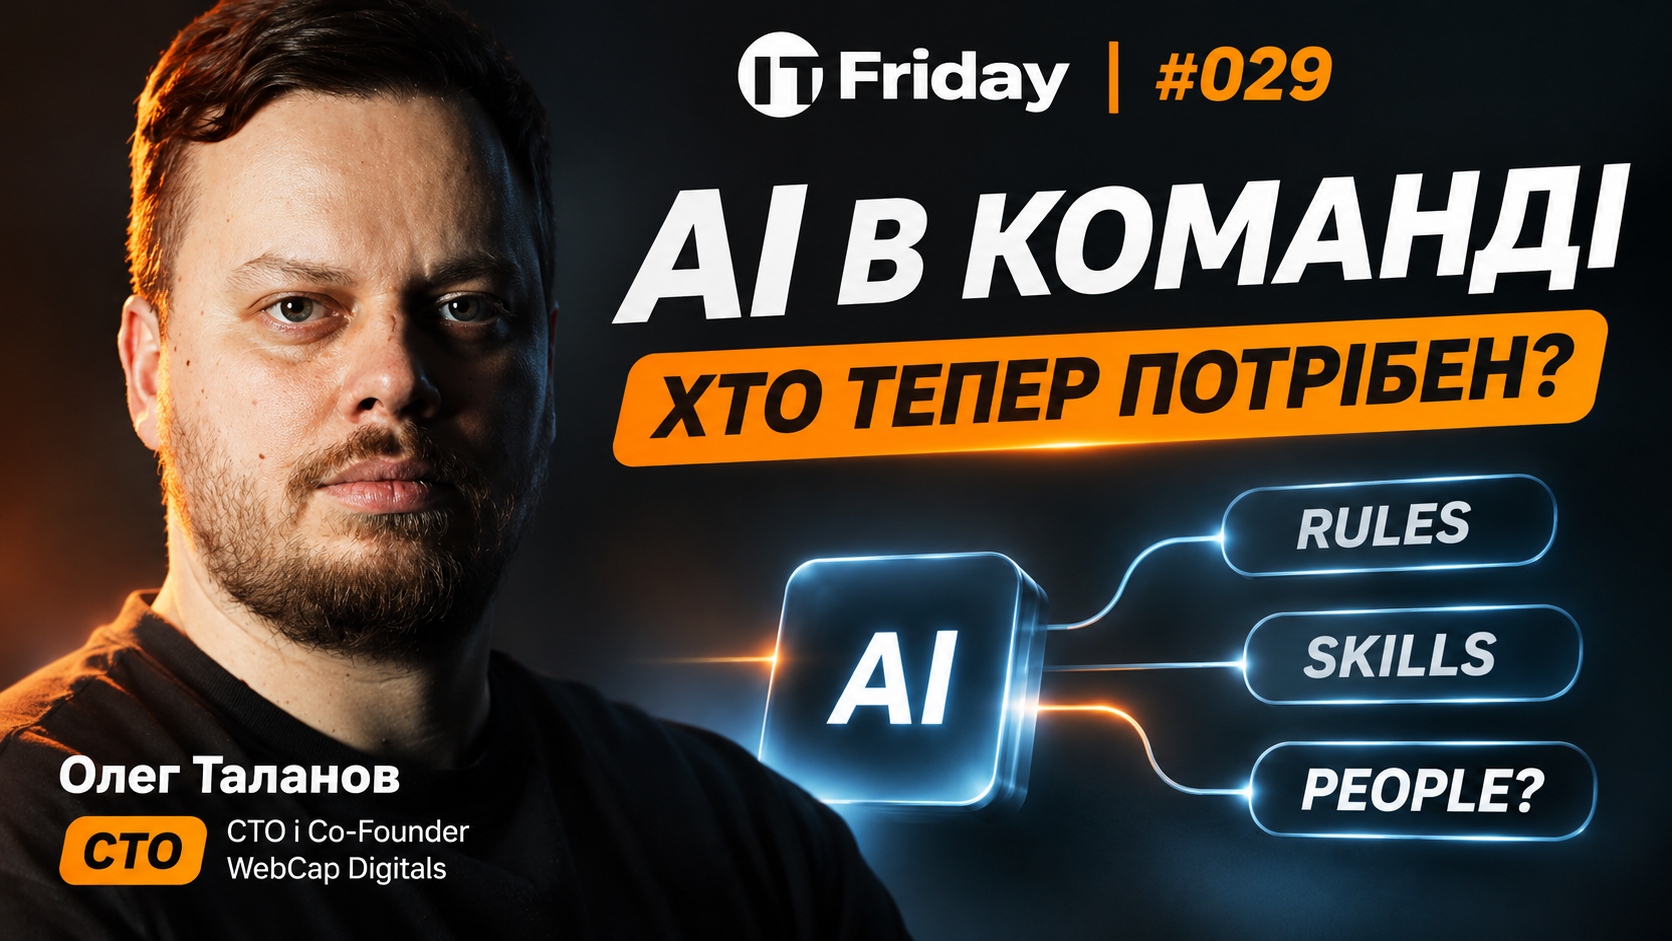
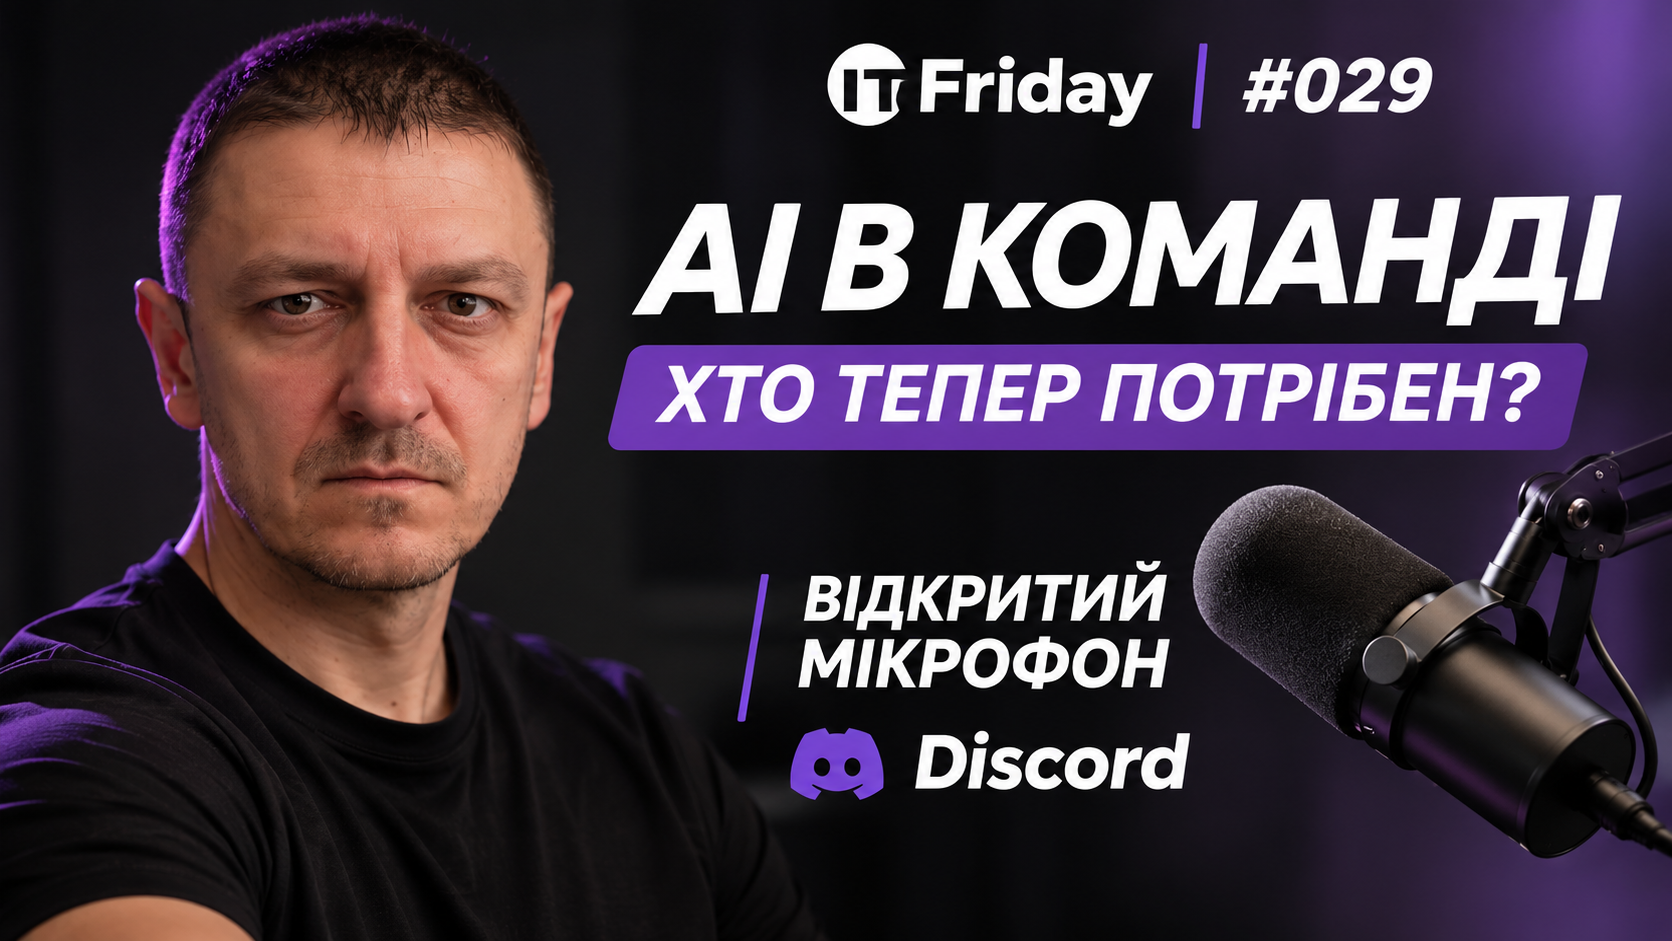
029: open conversation with the audience + new cover
Oleh Talanov can't join; #029 becomes solo + Discord voice room.
Same topic, new description, format line and cover (UA + EN).
#029 removed from Talanov's profile; host role Interviewer -> Speaker.

diff --git a/streams/029.md b/streams/029.md
@@ -1,15 +1,15 @@
 ---
-description: "Стрім ІТ П'ятниці #029: AI в команді: правила, скіли і хто тепер потрібен — Олег Таланов. Погляд CTO агенції і розробника, який щодня працює з агентами."
+description: "Стрім ІТ П'ятниці #029: AI в команді: правила, скіли і хто тепер потрібен. Відкрита розмова з глядачами: досвід розробника і ваші голоси з Discord-кімнати."
 topic: ai
 ---
 
-# #029 — AI в команді: правила, скіли і хто тепер потрібен · Олег Таланов
+# #029 — AI в команді: правила, скіли і хто тепер потрібен
 
 <StreamVideo />
 
 **Дата:** 27 листопада 2026 | 19:00 London / 21:00 Kyiv  
-**Формат:** Дискусія з гостем · погляд CTO і розробника · ~60 хвилин  
-**Гість:** Олег Таланов  
+**Формат:** Відкрита розмова з глядачами · соло + голоси з Discord · ~60 хвилин  
+**Гість:** —  
 **YouTube: [https://youtube.com/live/d6rjxuP78jE](https://youtube.com/live/d6rjxuP78jE)**
 
 ## Учасники
@@ -18,31 +18,22 @@ topic: ai
 The AA · Cardiff, UK  
 [YouTube @zloyleva](https://youtube.com/@zloyleva) · [itfriday.community](https://itfriday.community)
 
-**[Олег Таланов](/speakers/oleh-talanov)** — CTO & Co-Founder  
-WebCap Digitals · Запоріжжя, Україна  
-[LinkedIn](https://www.linkedin.com/in/talanov-oleh/) · [webcap.com](https://webcap.com)
-
-CTO і co-founder **WebCap Digitals**. Утретє на ІТ П'ятниці після [#005](/streams/005) і [#012](/streams/012).
-
 ## Про що поговоримо
 
-Про AI в нас було вже багато стрімів, але завжди з боку розробника: інструменти, агенти, скіли, workflow. Цього разу дивимося з іншого боку столу. Олег Таланов — людина, яка вирішує, кого наймати, що дозволено робити з AI в команді і що казати клієнтам, коли вони питають «а чому не дешевше, ви ж з AI?».
+> Формат змінився: Олег Таланов, на жаль, цього разу не зможе приєднатися. Тема лишається та сама, але замість розмови з CTO — відкрита розмова з вами.
 
-Розмова двох практиків: CTO агенції і розробник, який щодня працює з агентами.
-
-> Олег у Запоріжжі, де графік світла пишуть російські обстріли. Якщо зв'язок зникне, план Б готовий — стрім буде в будь-якому разі.
+Я розробник, який щодня працює з AI-агентами, і розповім, як це виглядає в мене насправді. А далі слово вам: хочеш сказати голосом — заходь у Discord-кімнату **IT Friday voice room** (<a href="https://discord.gg/az53vrKQU" target="_blank" rel="noopener">посилання</a>), і я виведу тебе в ефір. Не хочеш голосом — пиши в чат, читаю все.
 
 ### Що розберемо
 
-- Як ми реально використовуємо AI: інструменти, робочий день, команда
-- Чи стали проєкти швидшими насправді і чи помітили це клієнти
-- Правила в команді: код клієнта в LLM, NDA, CLAUDE.md / AGENTS.md у репо
+- Як я реально використовую AI і чи став я швидшим
+- Правила: як домовлятися з агентом, NDA і код роботодавця в LLM
 - Хто відповідає за код, який написав агент
-- Скіли: покажемо свої, і чи треба їх тестувати
-- Коли делегуєш код агентам, чи не втрачаєш орієнтацію у власному проєкті?
+- Скіли: чи треба їх тестувати, і як зрозуміти, що агент «поплив»
+- Чи розумієш ти код, який тобі написав AI місяць тому?
 - Люди: звільнення «через AI», джуни, тиск «використовуй AI або відстанеш»
-- Бліц: «AI — це бульбашка», «я вже не напишу код руками», «промпти тільки англійською»
-- Питання з чату
+- Бліц «я проти чату»: «AI — це бульбашка», «я вже не напишу код руками», «промпти тільки англійською»
+- Ваші питання і думки — голосом у Discord або в чаті
 
 Головне питання вечора: AI в команді — це нові правила гри для всіх чи просто ще один інструмент, про який забагато галасу?
 

diff --git a/en/streams/029.md b/en/streams/029.md
@@ -1,15 +1,15 @@
 ---
-description: "IT Friday stream #029: AI in the Team: Rules, Skills and Who We Need Now — Oleh Talanov. An agency CTO and a developer who works with agents every day."
+description: "IT Friday stream #029: AI in the Team: Rules, Skills and Who We Need Now. An open conversation with the audience: a developer's experience and your voices from our Discord room."
 topic: ai
 ---
 
-# #029 — AI in the Team: Rules, Skills and Who We Need Now · Oleh Talanov
+# #029 — AI in the Team: Rules, Skills and Who We Need Now
 
 <StreamVideo />
 
 **Date:** November 27, 2026 | 19:00 London / 21:00 Kyiv  
-**Format:** Discussion with a guest · the CTO and the developer view · ~60 min  
-**Guest:** Oleh Talanov  
+**Format:** Open conversation with the audience · solo + voices from Discord · ~60 min  
+**Guest:** —  
 **YouTube: [https://youtube.com/live/d6rjxuP78jE](https://youtube.com/live/d6rjxuP78jE)**
 
 ## Participants
@@ -18,31 +18,22 @@ topic: ai
 The AA · Cardiff, UK  
 [YouTube @zloyleva](https://youtube.com/@zloyleva) · [itfriday.community](https://itfriday.community)
 
-**[Oleh Talanov](/en/speakers/oleh-talanov)** — CTO & Co-Founder  
-WebCap Digitals · Zaporizhzhia, Ukraine  
-[LinkedIn](https://www.linkedin.com/in/talanov-oleh/) · [webcap.com](https://webcap.com)
-
-CTO and co-founder of **WebCap Digitals**. His third time on IT Friday, after [#005](/en/streams/005) and [#012](/en/streams/012).
-
 ## What We'll Discuss
 
-We've done plenty of AI streams from the developer's side: tools, agents, skills, workflow. This time we switch seats. Oleh Talanov is the one deciding who gets hired, what the team is allowed to do with AI, and what to tell clients who ask “you use AI, so why isn't it cheaper?”.
+> Change of format: Oleh Talanov unfortunately can't join us this time. The topic stays the same, but instead of a conversation with a CTO, it's an open conversation with you.
 
-A conversation between two practitioners: an agency CTO and a developer who works with agents every day.
-
-> Oleh is in Zaporizhzhia, where Russian strikes keep knocking out the power. If the connection drops, we have a backup plan and the stream goes on.
+I'm a developer who works with AI agents every day, and I'll share how that actually looks for me. Then the floor is yours: want to speak? Join the **IT Friday voice room** on Discord (<a href="https://discord.gg/az53vrKQU" target="_blank" rel="noopener">link</a>) and I'll bring you on air. Prefer not to? Drop it in the chat, I read everything.
 
 ### What we'll cover
 
-- How we actually use AI: tools, the working day, the team
-- Did projects really get faster, and did clients notice
-- Team rules: client code in LLMs, NDAs, CLAUDE.md / AGENTS.md in repos
+- How I actually use AI, and whether it made me faster
+- Rules: how to set boundaries for an agent, NDAs and your employer's code in LLMs
 - Who owns code written by an agent
-- Skills: we'll show ours, and whether you need to test them
-- When you delegate code to agents, do you lose your bearings in your own project?
+- Skills: do you need to test them, and how to tell an agent has lost the plot
+- Do you understand the code AI wrote for you a month ago?
 - People: “AI layoffs”, juniors, and the pressure to use AI or fall behind
-- Blitz round: “AI is a bubble”, “I'll never write code by hand again”, “prompts only in English”
-- Questions from chat
+- Blitz round, me vs the chat: “AI is a bubble”, “I'll never write code by hand again”, “prompts only in English”
+- Your questions and opinions, by voice on Discord or in the chat
 
 The big question of the evening: is AI in the team a new set of rules for everyone, or just another overhyped tool?
 

diff --git a/speakers/oleh-levchenko.md b/speakers/oleh-levchenko.md
@@ -24,7 +24,7 @@ React · Node.js · TypeScript · AWS · System Design · Кар'єра в IT ·
 
 | Стрім | Роль | Тема | Дата |
 |-------|------|------|------|
-| [#029](/streams/029) | Інтерв'юер | AI в команді: правила, скіли і хто тепер потрібен — дискусія з Олегом Талановим | 27.11.2026 |
+| [#029](/streams/029) | Доповідач | AI в команді: правила, скіли і хто тепер потрібен — відкрита розмова з глядачами | 27.11.2026 |
 | [#028](/streams/028) | Доповідач | JavaScript виправив Date через 30 років — Temporal API на живих прикладах у консолі | 20.11.2026 |
 | [#027](/streams/027) | Інтерв'юер | Як знайти роботу в IT зараз: досвід з мобілки і вебу — інтерв'ю з Владиславом Баранкевичем | 13.11.2026 |
 | [#026](/streams/026) | Доповідач | RAG чи AI-агент: що обрати для пошуку по документах — експеримент наживо | 06.11.2026 |

diff --git a/en/speakers/oleh-levchenko.md b/en/speakers/oleh-levchenko.md
@@ -24,7 +24,7 @@ React · Node.js · TypeScript · AWS · System Design · IT Career · Community
 
 | Stream | Role | Topic | Date |
 |--------|------|-------|------|
-| [#029](/en/streams/029) | Interviewer | AI in the Team: Rules, Skills and Who We Need Now — discussion with Oleh Talanov | 27.11.2026 |
+| [#029](/en/streams/029) | Speaker | AI in the Team: Rules, Skills and Who We Need Now — an open conversation with the audience | 27.11.2026 |
 | [#028](/en/streams/028) | Speaker | JavaScript fixed Date after 30 years — the Temporal API with live console examples | 20.11.2026 |
 | [#027](/en/streams/027) | Interviewer | How to Find a Tech Job Right Now: Mobile and Web Experience — interview with Vladyslav Barankevych | 13.11.2026 |
 | [#026](/en/streams/026) | Speaker | RAG or an AI agent: which to choose for document search — a live experiment | 06.11.2026 |

diff --git a/CHANGELOG.md b/CHANGELOG.md
@@ -3,6 +3,13 @@
 Versioning: `1.<stream>.<patch>` — see "Versioning" in `CLAUDE.md`.
 Newest first. Not published on the site (`srcExclude`).
 
+## 1.29.3 — 2026-11-27
+
+### Changed
+- Stream #029: Oleh Talanov can't join; the stream becomes an open conversation with the audience (solo + Discord voice room). Same topic, new description and format line (UA + EN)
+- Speaker profiles: #029 removed from Oleh Talanov; Oleh Levchenko's #029 role changed Interviewer → Speaker
+- Stream #029 cover (`029.png` + `029.webp`): new thumbnail for the open-mic format
+
 ## 1.29.2 — 2026-11-27
 
 ### Fixed

diff --git a/speakers/oleh-talanov.md b/speakers/oleh-talanov.md
@@ -24,7 +24,6 @@ Laravel · Inertia.js · React · Vue.js · PHP · Software Architecture · Foun
 
 | Стрім | Роль | Тема | Дата |
 |-------|------|------|------|
-| [#029](/streams/029) | Гість | AI в команді: правила, скіли і хто тепер потрібен — дискусія | 27.11.2026 |
 | [#012](/streams/012) | Гість | InertiaJS: SPA без окремого API? — дискусія | 31.07.2026 |
 | [#005](/streams/005) | Гість | CTO, метал і Laravel + Inertia.js — інтерв'ю | 12.06.2026 |
 

diff --git a/en/speakers/oleh-talanov.md b/en/speakers/oleh-talanov.md
@@ -24,7 +24,6 @@ Laravel · Inertia.js · React · Vue.js · PHP · Software Architecture · Foun
 
 | Stream | Role | Topic | Date |
 |--------|------|-------|------|
-| [#029](/en/streams/029) | Guest | AI in the Team: Rules, Skills and Who We Need Now — discussion | 27.11.2026 |
 | [#012](/en/streams/012) | Guest | InertiaJS: SPA Without a Separate API? — discussion | 31.07.2026 |
 | [#005](/en/streams/005) | Guest | CTO, metal & Laravel + Inertia.js — interview | 12.06.2026 |
 
